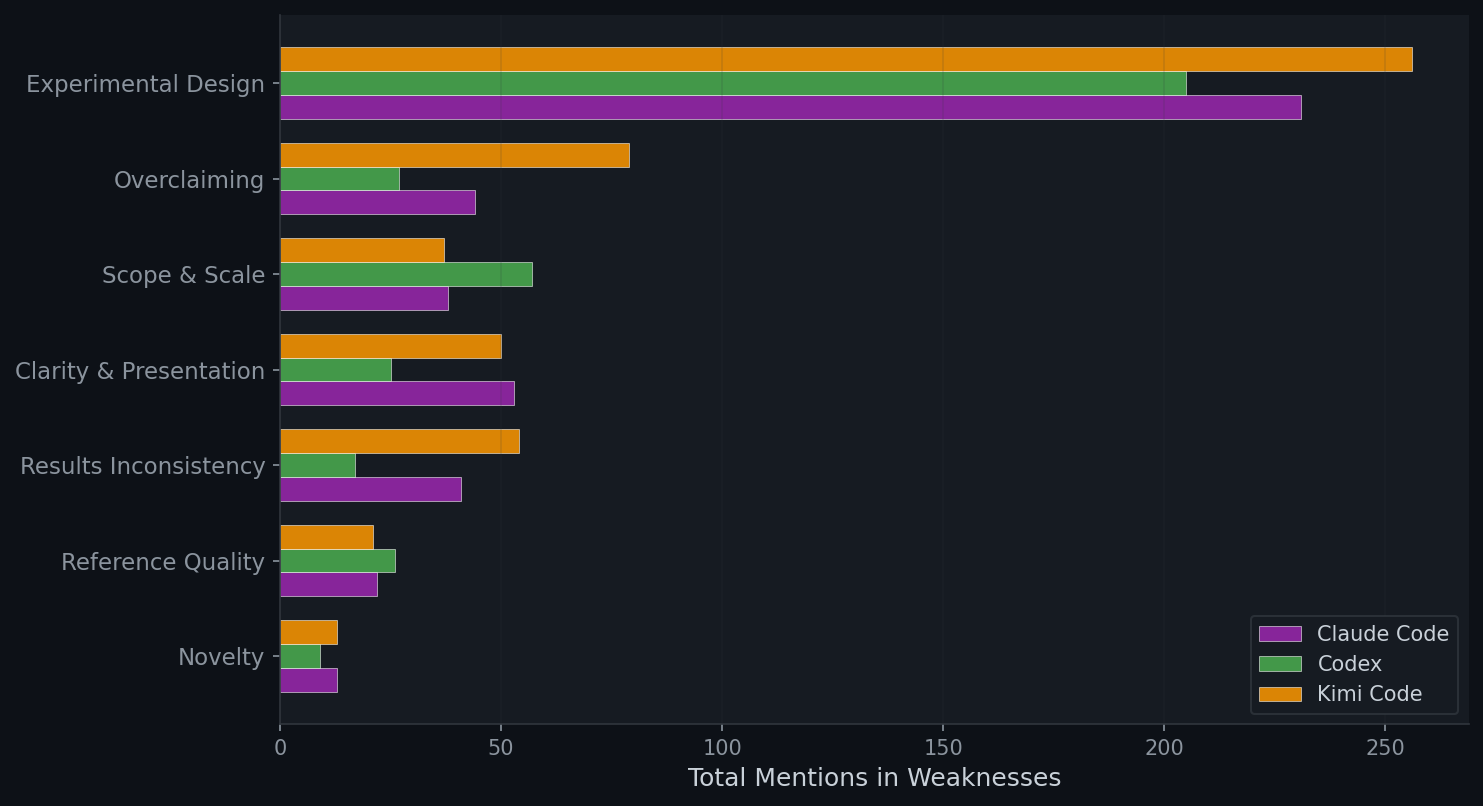
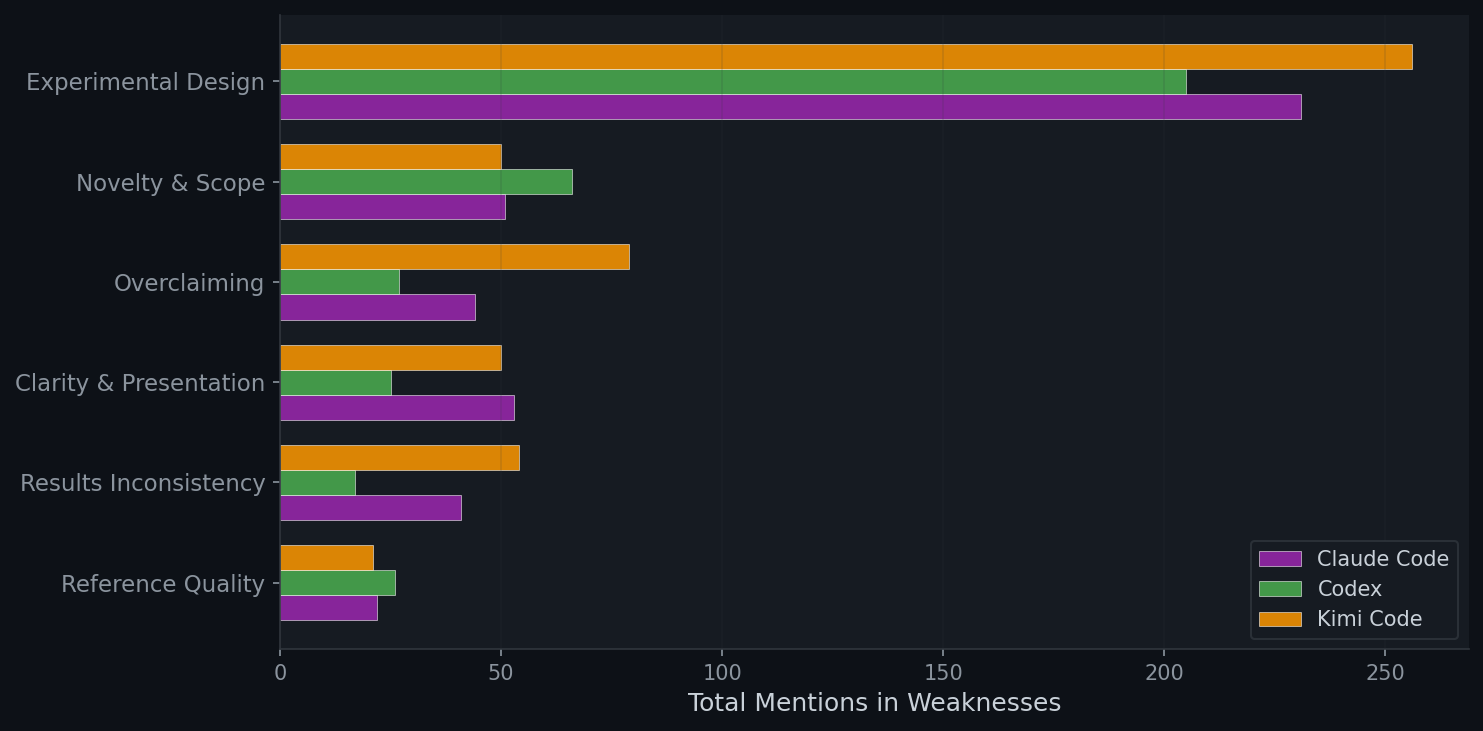
Merge Novelty and Scope into single category

diff --git a/index.html b/index.html
@@ -389,19 +389,18 @@
   </div>
 
   <h3>Qualitative Review Analysis</h3>
-  <p>We analyze the text of Stanford reviews to identify common weakness themes via keyword matching across 7 categories:
+  <p>We analyze the text of Stanford reviews to identify common weakness themes via keyword matching across 6 categories:
     <strong>Experimental Design</strong> (baselines, ablations, evaluation, statistical rigor),
+    <strong>Novelty &amp; Scope</strong> (incremental contribution, narrow or limited scope),
     <strong>Overclaiming</strong> (unsupported or exaggerated claims),
-    <strong>Scope &amp; Scale</strong> (narrow research scope, limited contribution),
     <strong>Clarity &amp; Presentation</strong> (unclear writing, confusing notation),
     <strong>Results Inconsistency</strong> (contradictions or mismatches within the paper),
-    <strong>Reference Quality</strong> (fake citations, placeholder references, future dates),
-    and <strong>Novelty</strong> (incremental or trivial contributions).
+    and <strong>Reference Quality</strong> (fake citations, placeholder references, future dates).
     We also measure the balance between strengths and weaknesses across agents.</p>
 
   <div class="fig">
     <img src="assets/plots/weakness_themes.png" alt="Weakness themes">
-    <div class="fig-caption">Figure 3: Weakness themes in Stanford reviews (7 categories). Experimental design is the dominant concern. Kimi receives the most criticism on overclaiming and results inconsistency; Codex is flagged most for limited scope. Reference quality issues (fake citations, placeholder references) are flagged roughly equally across agents.</div>
+    <div class="fig-caption">Figure 3: Weakness themes in Stanford reviews (6 categories). Experimental design is the dominant concern. Kimi leads in overclaiming and results inconsistency; Codex is flagged most for novelty &amp; scope limitations.</div>
   </div>
 
   <table>
@@ -412,7 +411,7 @@
   </table>
 
   <div class="finding">
-    <strong>Finding 4:</strong> <strong>Experimental design</strong> is the dominant weakness across all agents, with Kimi receiving the most criticism (256 mentions). The missing baselines/comparison is a major reason for experimental design weakness. Kimi also leads in <strong>overclaiming</strong> (79 vs Claude's 44 and Codex's 27) and <strong>results inconsistency</strong> (54 vs Codex's 17), while Codex is flagged most for <strong>limited scope</strong> (57) — consistent with its cautious, narrow experiment style. Meanwhile, Kimi's weaknesses are about <strong>1.85x</strong> more than strengths, vs only <strong>1.30x</strong> for Codex, reflecting the overall quality gap.
+    <strong>Finding 4:</strong> <strong>Experimental design</strong> is the dominant weakness across all agents, with Kimi receiving the most criticism (256 mentions). The missing baselines/comparison is a major reason for experimental design weakness. Kimi also leads in <strong>overclaiming</strong> (79 vs Claude's 44 and Codex's 27) and <strong>results inconsistency</strong> (54 vs Codex's 17), while Codex is flagged most for <strong>novelty &amp; scope</strong> (66) — consistent with its cautious, narrow experiment style. Meanwhile, Kimi's weaknesses are about <strong>1.85x</strong> more than strengths, vs only <strong>1.30x</strong> for Codex, reflecting the overall quality gap.
   </div>
 </section>
 
